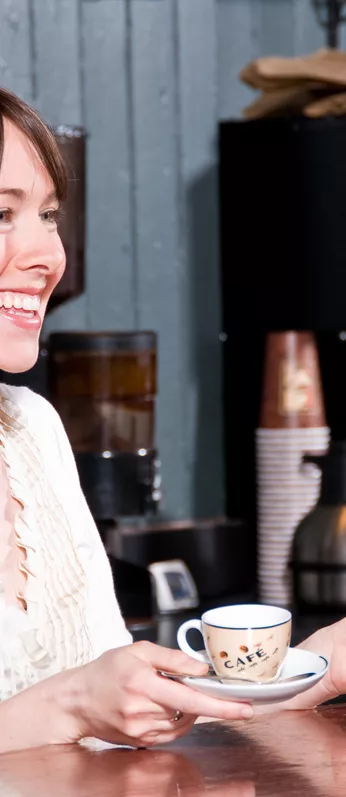
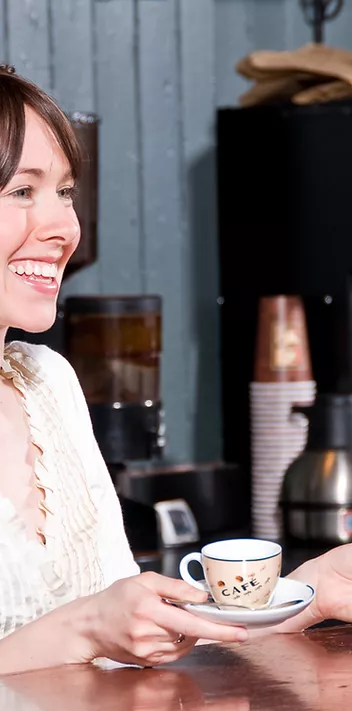
Desafio - restaurante/comida - O Café

diff --git a/exercicio13/style.css b/exercicio13/style.css
@@ -16,10 +16,10 @@
 
 body {
     background-image: url(./imagens/backgroundmobile.webp);
-    background-position: left center;
+    background-position: top;
     background-repeat: no-repeat;
-    background-size: cover;
-    min-height: 100vh;
+    background-size: cover;/* 
+    min-height: 100vh; */
 }
 
 /* ############### Header ############### */
@@ -147,6 +147,8 @@ footer {
     height: 83px;
     margin-top: 69px;
     padding-block: 7px;
+    position: absolute;
+    bottom: 15px;
 }
 
 footer #oCafe {
@@ -224,7 +226,7 @@ footer p {
         display: none;
     }
 
-    /* ###### main ###### */
+    /* ###### Main ###### */
 
     main {
         padding-inline: calc((100% - 980px) * 0.5);
@@ -247,6 +249,8 @@ footer p {
         align-items: center;
         height: 62px;
     }
+
+    /* ###### Footer ###### */
 
     footer {
         position: absolute;
